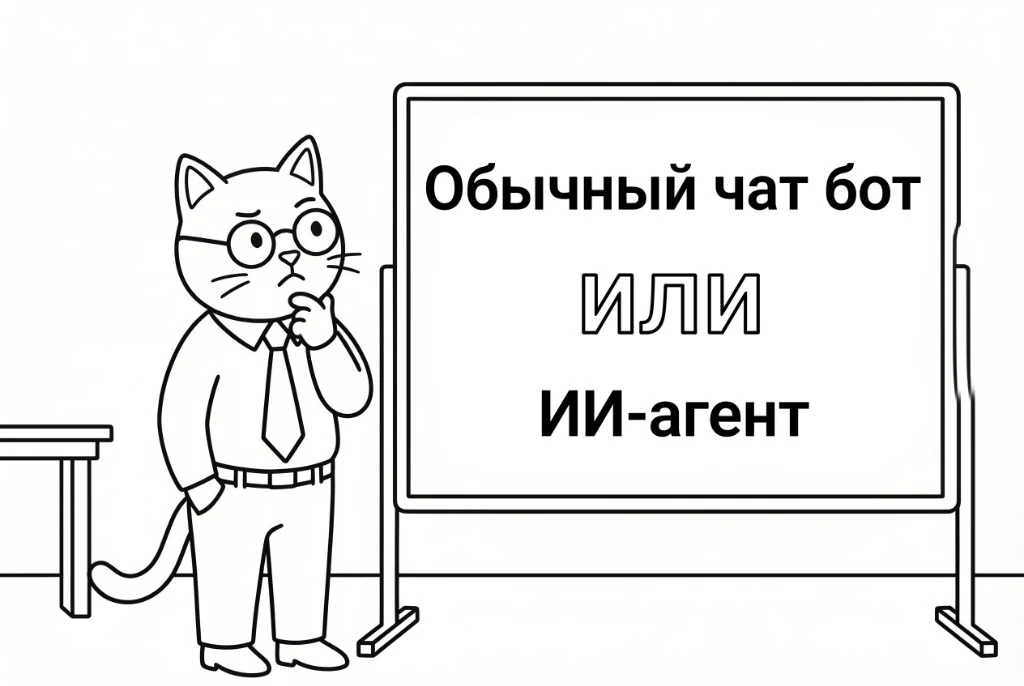
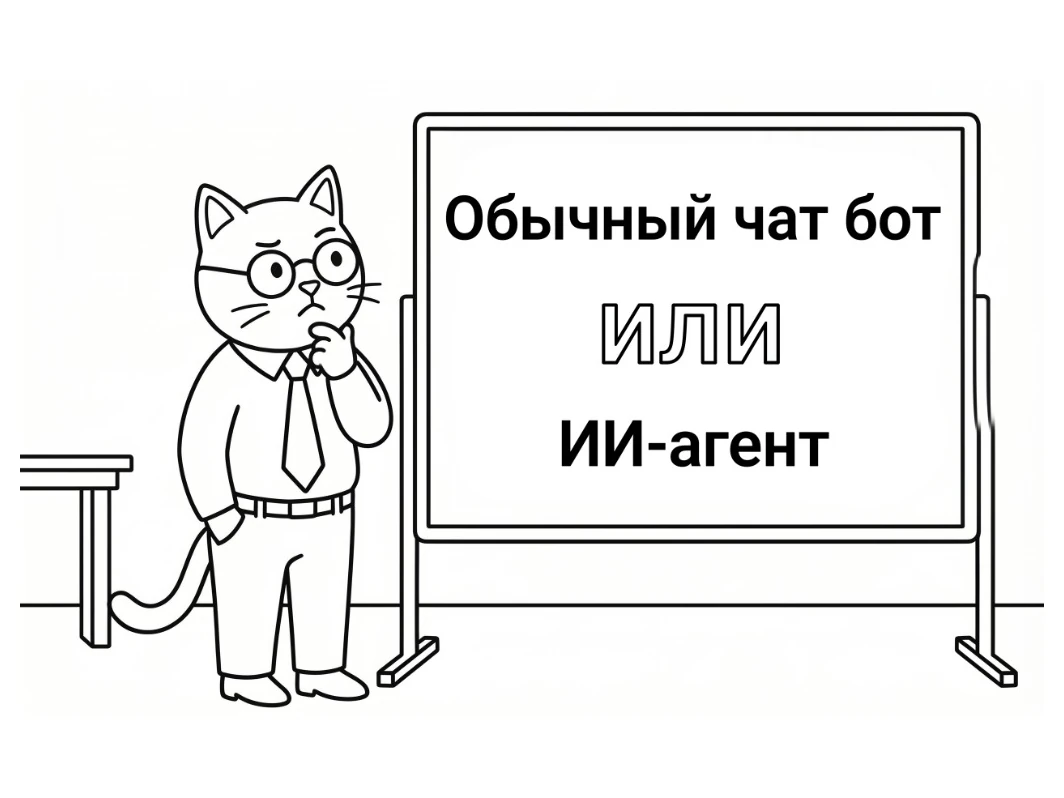
fix(blog): expand preview image box and use object-contain with centered 4:3 canvas

Changed region(s): [[0.0, 0.1224, 1.0, 1.0], [0.5625, 0.3673, 0.75, 0.4898]]

diff --git a/src/components/blog/BlogIndexClient.tsx b/src/components/blog/BlogIndexClient.tsx
@@ -81,12 +81,12 @@ export function BlogIndexClient({ articles }: Props) {
               {article.image && (
                 <Link
                   href={`/blog/${article.slug}`}
-                  className="w-full sm:w-44 h-40 flex-shrink-0 rounded-xl overflow-hidden bg-[#F3F4F6] border border-[#E5E7EB] block"
+                  className="w-full sm:w-52 h-44 sm:h-36 flex-shrink-0 rounded-xl overflow-hidden bg-white border border-[#E5E7EB] block p-1"
                 >
                   <img
                     src={article.image}
                     alt={article.title}
-                    className="w-full h-full object-cover group-hover:scale-105 transition-transform duration-300"
+                    className="w-full h-full object-contain group-hover:scale-105 transition-transform duration-300"
                     loading="lazy"
                   />
                 </Link>
